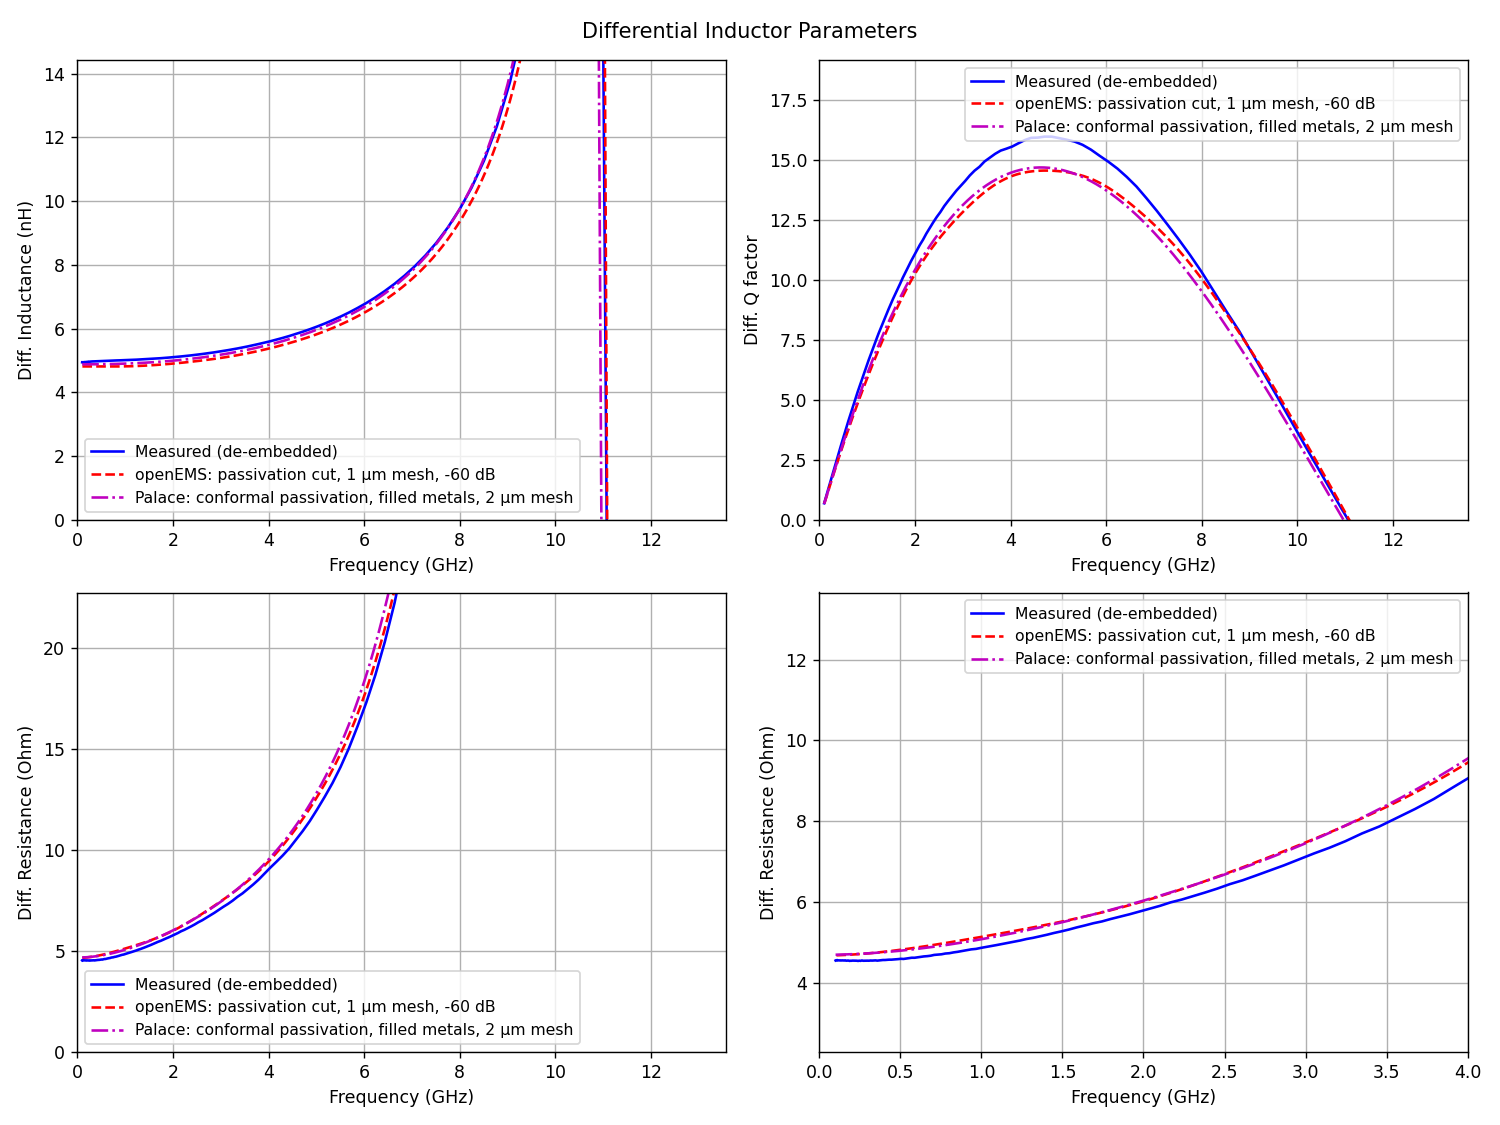
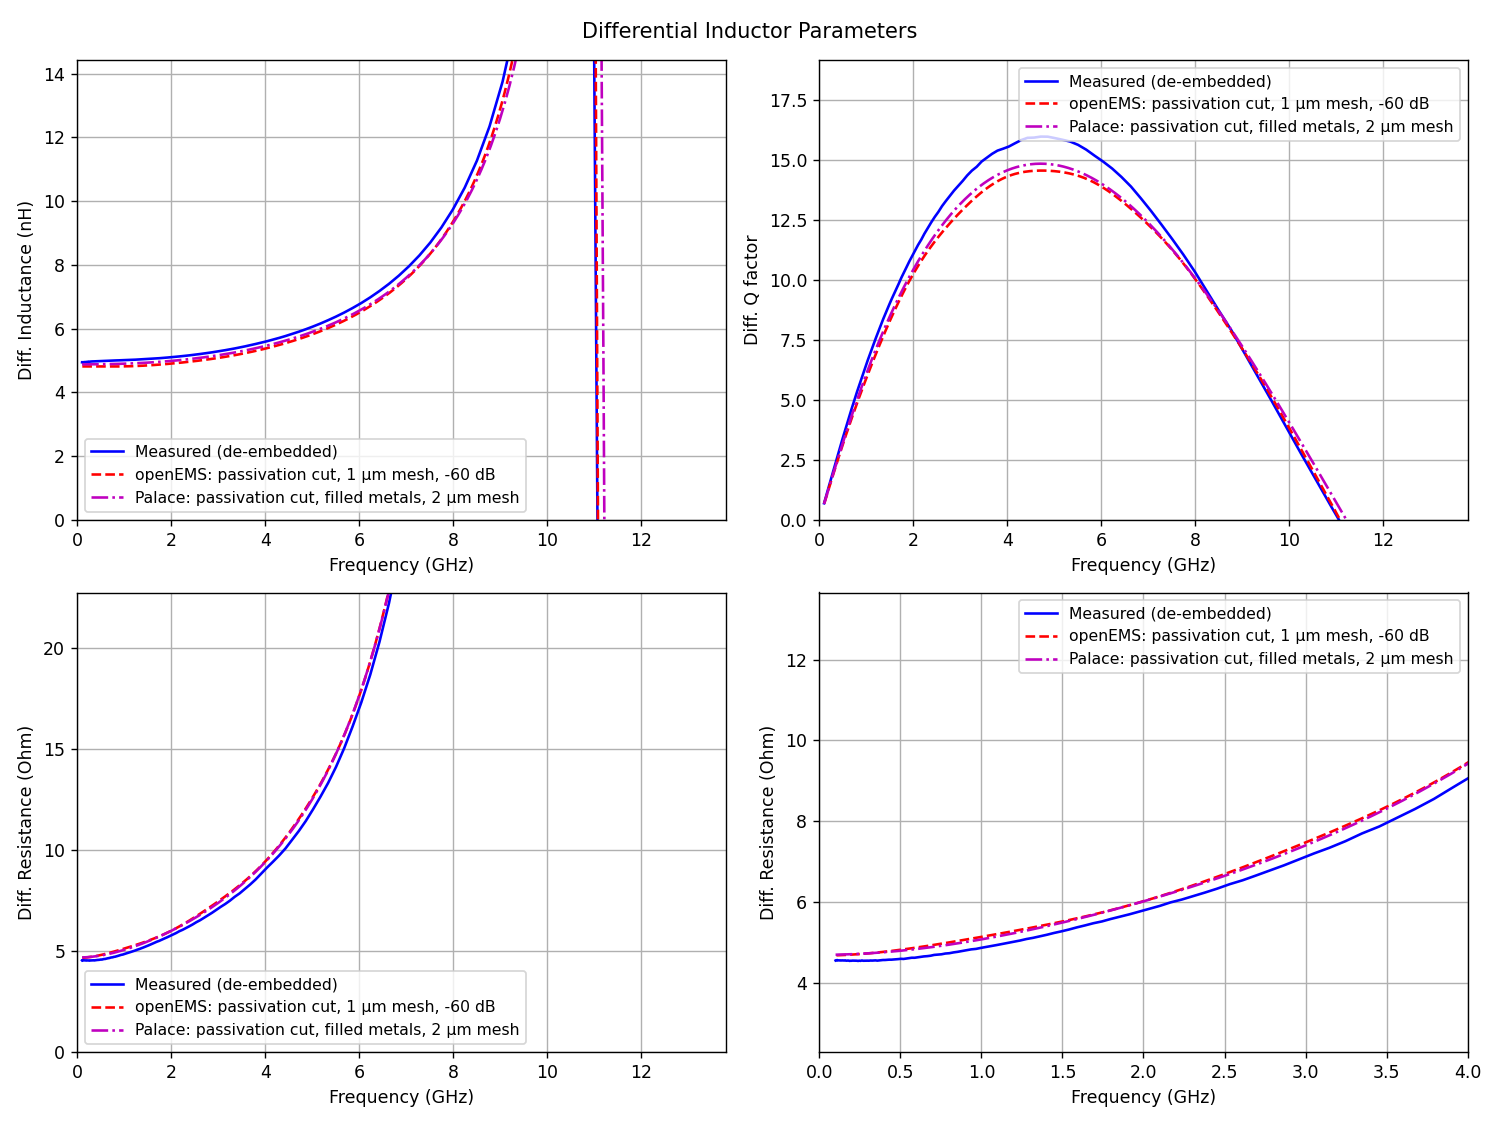
L6n2 study: compare openEMS and Palace with the same passivation cut model
The comparison now uses the gds2palace v2 passivation cut run (2 um,
filled metals, via merge + correction, 11 min 43 s) instead of the
conformal one, so both solvers use the same passivation model. Updated
table, agreement numbers (0.3% R, 1.7% L, 1.9% Q, 1.2% SRF) and plot;
the conformal Palace result is mentioned for reference. Also fixes the
broken link to the passivation step.

diff --git a/more_examples/measured_vs_simulated/more_accurate_models_L6n2/results/plot_study.py b/more_examples/measured_vs_simulated/more_accurate_models_L6n2/results/plot_study.py
@@ -38,7 +38,7 @@ PLANAR_2UM = run("run_L6n2_mergecorrection_sweep_mesh2_limit-60", "Sim: planar p
 PASSICUT_2UM = run("run_L6n2_mergecorrection_passicut_sweep_mesh2_limit-60", "Sim: passivation cut, 2 µm mesh")
 PASSICUT_1UM = run("run_L6n2_mergecorrection_passicut_sweep_mesh1_limit-60", "Sim: passivation cut, 1 µm mesh")
 OEMS_1UM = run("run_L6n2_mergecorrection_passicut_sweep_mesh1_limit-60", "openEMS: passivation cut, 1 µm mesh, -60 dB")
-PALACE_REC = run("palace_L6n2_with_ports_2um_passi3D", "Palace: conformal passivation, filled metals, 2 µm mesh")
+PALACE_REC = run("palace_L6n2_with_ports_2um_passicut", "Palace: passivation cut, filled metals, 2 µm mesh")
 
 PLOTS = {
     "step1_via_merge_correction.png": [MEAS, MESH1, E40_CORR],

diff --git a/more_examples/measured_vs_simulated/more_accurate_models_L6n2/README.md b/more_examples/measured_vs_simulated/more_accurate_models_L6n2/README.md
@@ -201,37 +201,37 @@ If you go too coarse, the staircase mesh will create rough edges and even shorts
 
 ## Comparison: measurement, openEMS and gds2palace
 
-The final openEMS model from [Planar vs. cut passivation](#planar-vs-cut-passivation) against the model the gds2palace study recommends:
+The final openEMS model from [the third error source](#third-error-source-non-planar-dielectrics-covering-topmetal2) against gds2palace with the same passivation model:
 
 - **openEMS:** passivation cut, via merge + correction, 1 µm mesh, −60 dB end criterion.
-- **Palace:** conformal passivation, filled metals (volume mesh), via merge + correction, 2 µm mesh. That study found its 1 µm run changed very little at 1.6 times the cost. Its S-parameters are copied to `results/palace_L6n2_with_ports_2um_passi3D.s2p`.
+- **Palace:** passivation cut, filled metals (volume mesh), via merge + correction, 2 µm mesh, from the gds2palace L6n2 study (`more_accurate_models_L6n2_v2`). Its S-parameters are copied to `results/palace_L6n2_with_ports_2um_passicut.s2p`.
 
 | Model | R @ 0.1 GHz | R @ 1 GHz | L @ 1 GHz | Peak Q | SRF | Solve time |
 |---|---|---|---|---|---|---|
 | Measured | 4.55 Ω | 4.86 Ω | 5.01 nH | 15.96 @ 4.71 GHz | 11.07 GHz | |
 | openEMS: passivation cut, 1 µm mesh, −60 dB | 4.67 Ω | 5.14 Ω | 4.81 nH | 14.54 @ 4.72 GHz | 11.08 GHz | 33 min 57 s |
-| Palace: conformal passivation, filled metals, 2 µm mesh | 4.69 Ω | 5.07 Ω | 4.90 nH | 14.67 @ 4.60 GHz | 10.96 GHz | 21 min 57 s |
+| Palace: passivation cut, filled metals, 2 µm mesh | 4.69 Ω | 5.07 Ω | 4.90 nH | 14.83 @ 4.70 GHz | 11.22 GHz | 11 min 43 s |
 
-![openEMS (1 µm mesh) and Palace (2 µm mesh) vs. measurement](results/plots/openems_vs_palace.png)
+![openEMS (1 µm mesh) and Palace (2 µm mesh), both with passivation cut, vs. measurement](results/plots/openems_vs_palace.png)
 
 The two solvers agree with each other within:
 
 - 0.3% in low-frequency resistance;
-- 1.8% in inductance;
-- 0.9% in peak Q;
-- 1.1% in SRF.
+- 1.7% in inductance;
+- 1.9% in peak Q;
+- 1.2% in SRF.
 
-Both deviate from the measurement the same way: low-frequency resistance about 3% high, inductance 2–4% low, and peak Q 8–9% low. The SRF is 0.1% high for openEMS and 1.0% low for Palace.
+Both deviate from the measurement the same way: low-frequency resistance about 3% high, inductance 2–4% low, and peak Q 7–9% low. The SRF is 0.1% high for openEMS and 1.3% high for Palace.
 
-Note that the two use **different passivation models here**:  openEMS uses the "passivation cut" stackup, because that is a better match to the cellsize used in these FDTD models. Palace uses the conformal 3D passivation from derived layers. At a similar mesh size, that took 21 min 57 s in the gds2palace study, vs. 11 min 43 s for the "passivation cut" model, with very similar results. 
+Both use the **"passivation cut" model** here: the correct SiO2 and passivation thickness in the valleys between TopMetal2 traces, without a conformal cover on top of and beside TopMetal2. The stackup files themselves differ, because the openEMS and Palace stackups follow different modelling rules. The gds2palace study recommends the full conformal passivation instead, which openEMS can't resolve at a practical cell size (see [the third error source](#third-error-source-non-planar-dielectrics-covering-topmetal2)). In Palace, the conformal model moves the SRF from 11.22 GHz to 10.96 GHz and peak Q from 14.83 to 14.67, at about twice the solve time (21 min 57 s).
 
 Also note that the **meaning of refined_cellsize is different between both workflows**: in gds2openEMS this is about the **smallest** in-plane cellsize, geometry detail below this will be lost or clipped to the mesh (only thin layers still get smaller cells in z direction). In the gds2palace workflow, refined_cellsize is the **maximum** cellsize along the edges of the conductors, the actual mesh for small details can be much lower, only limited by the geometry itself. Same parameter names, but different meaning, so you usually need to use different values when switching between FDTD and FEM workflow! 
 
-Time reported in the table is the time to get the full S-parameters over the full sweep, running on HP Z2 mini G2a with Ryzen AI Max+ 395 (Strix Halo) and 128 GB RAM. OpenEMS was set to automatic thread count, Palace was using 16 threads, with gds2palace 0.8.0 and its default `complex_coarse_solve` (without it, the same Palace model took 34 min 29 s).
+Time reported in the table is the time to get the full S-parameters over the full sweep, running on HP Z2 mini G2a with Ryzen AI Max+ 395 (Strix Halo) and 128 GB RAM. OpenEMS was set to automatic thread count, Palace was using 16 threads, with gds2palace 0.8.0 and its default `complex_coarse_solve` (without it, the same Palace model took 29 min 4 s).
 
 ## Files
 
 - `run_*.py`: the openEMS model scripts. Results go to `output/`, which is not in git.
-- `results/*.s2p`: the S-parameters used in this README. `palace_L6n2_with_ports_2um_passi3D.s2p` is copied from the gds2palace study (`more_accurate_models_L6n2_v2`).
+- `results/*.s2p`: the S-parameters used in this README. `palace_L6n2_with_ports_2um_passicut.s2p` is copied from the gds2palace study (`more_accurate_models_L6n2_v2`).
 - `results/plot_study.py`: regenerates the L/Q/R plots in `results/plots/` from those files.
 - `results/plot_time_signals.py`: regenerates the excitation spectrum and port voltage plots. It needs the raw time signals in `output/`, so rerun `run_L6n2_mergecorrection_sweep.py` first.
